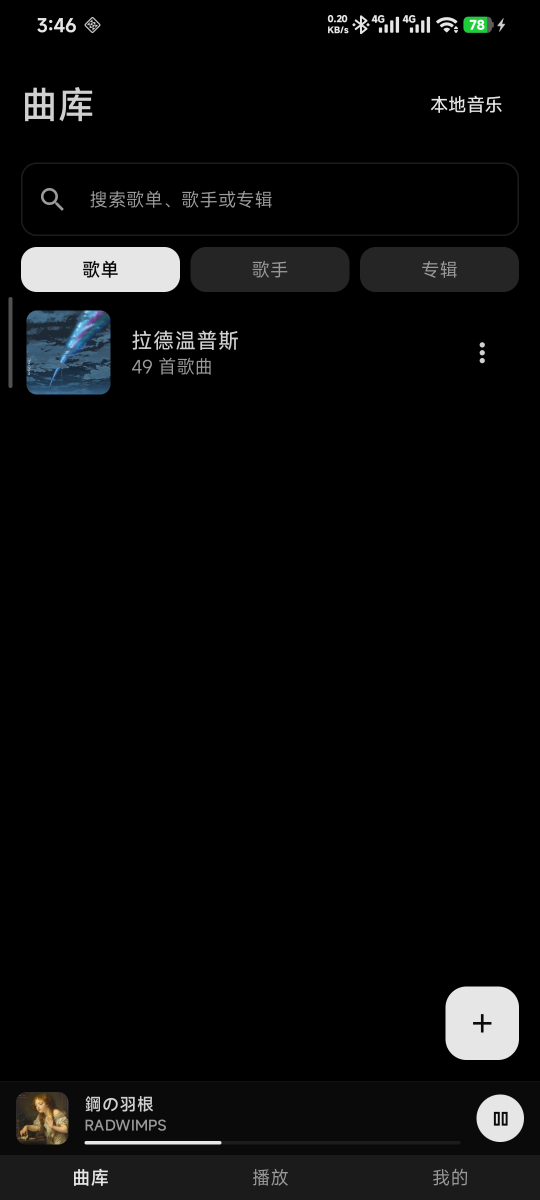
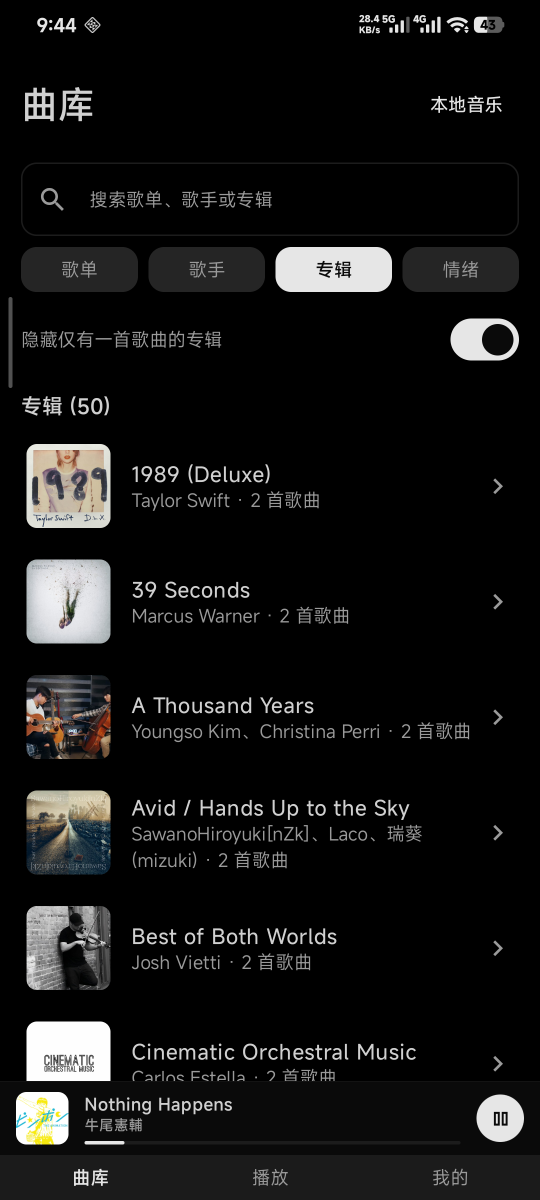
更新实际使用截图

diff --git a/README.md b/README.md
@@ -62,7 +62,7 @@
 | ![](./docs/readme-img/sample-use/1.png)  | ![](./docs/readme-img/sample-use/2.png)  | ![](./docs/readme-img/sample-use/3.png)  | ![](./docs/readme-img/sample-use/4.png)  |
 | ![](./docs/readme-img/sample-use/5.png)  | ![](./docs/readme-img/sample-use/6.png)  | ![](./docs/readme-img/sample-use/7.png)  | ![](./docs/readme-img/sample-use/8.png)  |
 | ![](./docs/readme-img/sample-use/9.png)  | ![](./docs/readme-img/sample-use/10.png) | ![](./docs/readme-img/sample-use/11.png) | ![](./docs/readme-img/sample-use/12.png) |
-| ![](./docs/readme-img/sample-use/13.png) | ![](./docs/readme-img/sample-use/14.png) | ![](./docs/readme-img/sample-use/15.png) |                                          |
+| ![](./docs/readme-img/sample-use/13.png) | ![](./docs/readme-img/sample-use/14.png) | ![](./docs/readme-img/sample-use/15.png) | ![](./docs/readme-img/sample-use/16.png) |
 
 ---
 
